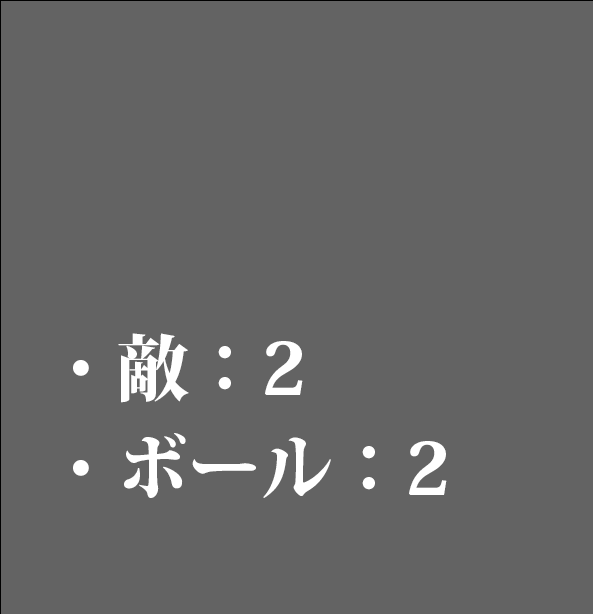
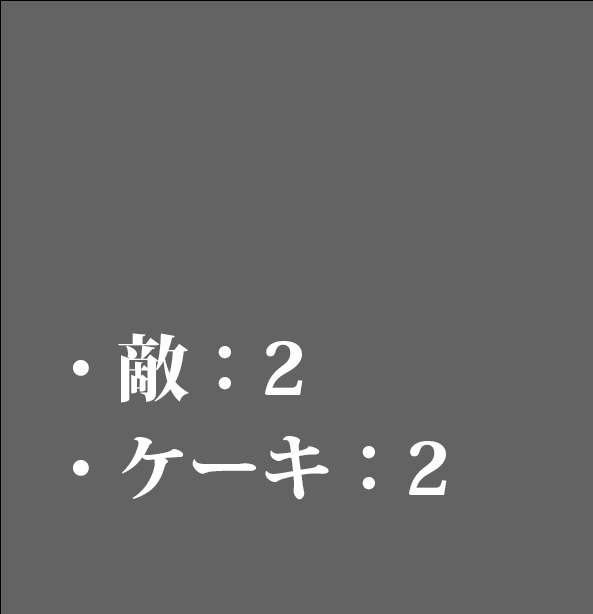
Stealthのコミット
ケーキの反応、ステージ３の中身記入

Changed region(s): [[0.4553, 0.7117, 0.5767, 0.8355], [0.2125, 0.7117, 0.3339, 0.8046]]

diff --git a/Stealth/EnemyBase.cpp b/Stealth/EnemyBase.cpp
@@ -12,13 +12,14 @@ EnemyBase::EnemyBase()
 	, object()
 	, targetPosition()
 	, length(900.0f)
+	, bulletDirection(0.0f)
 	, playerSpotted(false)
 	, cakeFlag(false)
 	, playerFindCount(0)
 	, playerFindImage(0)
 	, markImage(0)
 	, spottedSE(0)
-	, cakeEatImage(0)
+	, cakeImage()
 	, visualModelHandle(0)
 	, visualPosition()
 	, visualDir()
